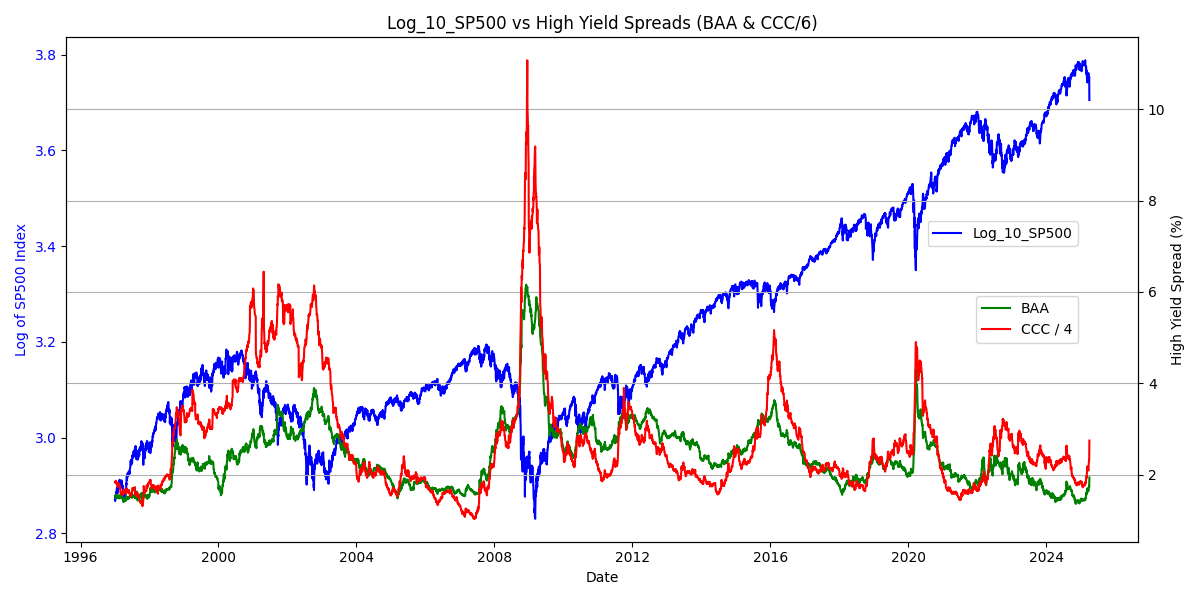
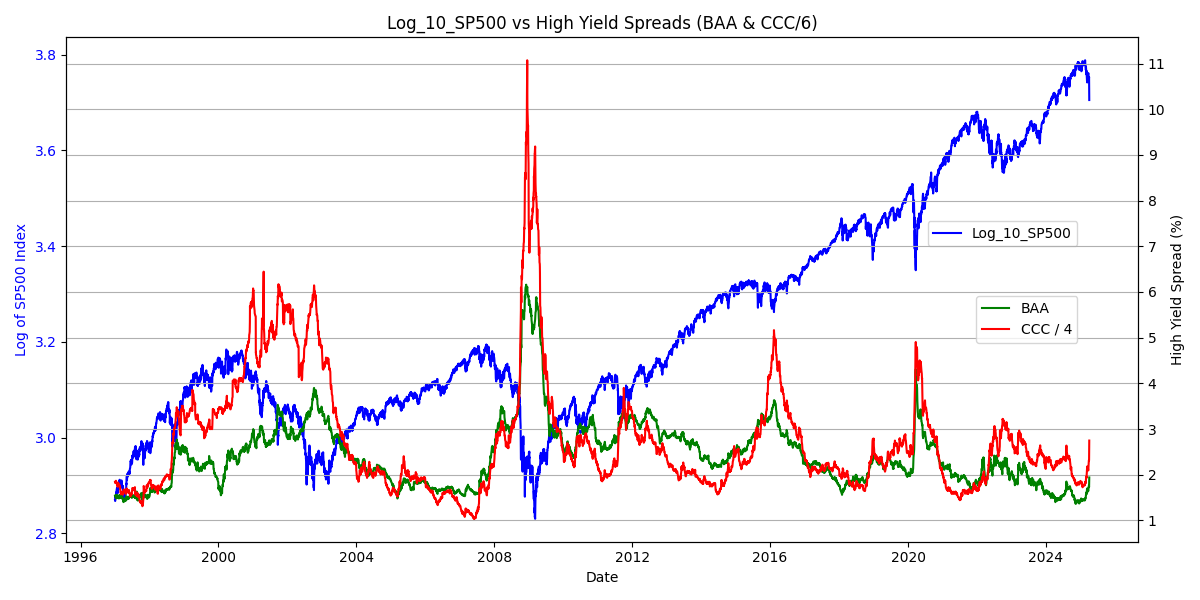
openbb demo

diff --git a/_posts/2025-04-06-炼金术.md b/_posts/2025-04-06-炼金术.md
@@ -3,7 +3,7 @@ title: Beatrice的黄金魔法
 date: 2025-04-06 00:00:00 +0800
 last_modified_at: 2025-04-07 00:01:00 +0800
 categories: [不可解] # 最多两层
-tags: [Beatrice]
+tags: [Beatrice, openBB]
 # toc: false # 关闭目录
 # math: true
 # mermaid: true # diagram generation
@@ -165,6 +165,7 @@ fred_api_key: "xxx"
 ```python
 import pandas as pd
 import matplotlib.pyplot as plt
+from matplotlib.ticker import MultipleLocator
 import yaml
 from openbb import obb
 import numpy as np
@@ -247,6 +248,7 @@ ax1.tick_params(axis="y", labelcolor="blue")
 
 # 创建第二个Y轴，用于绘制 BAA10Y 和 BAMLH0A3HYC
 ax2 = ax1.twinx()
+ax2.yaxis.set_major_locator(MultipleLocator(1)) # 刻度间隔为1
 (line1,) = ax2.plot(merged_data.index, merged_data["BAA10Y"], color="green", label="BAA")
 (line2,) = ax2.plot(merged_data.index, merged_data["BAMLH0A3HYC"] / 4, color="red", label="CCC / 4")
 ax2.set_ylabel("High Yield Spread (%)", color="black")  # 使用黑色表示次轴的标签
